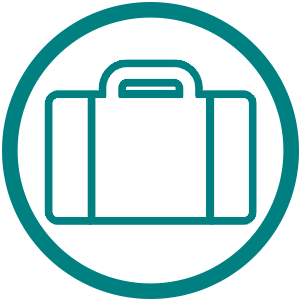
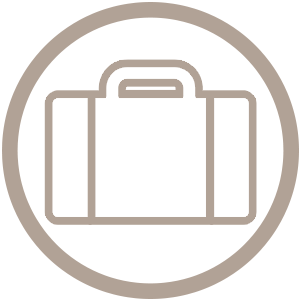
added tab color change

Changed region(s): [[0.0, 0.0, 1.0, 1.0]]

diff --git a/index.html b/index.html
@@ -7,36 +7,56 @@
 </head>
 <script type="text/javascript">
     //bio,experience,projects,skills,photography
+    var about = document.getElementById('bio');
+    var experience = document.getElementById('experience');
+    var project = document.getElementById('projects');
+    var photo = document.getElementById('photos');
+    var bioIcon = document.getElementById('bio_icon');
+    var expIcon = document.getElementById('experience_icon');
+    var projIcon = document.getElementById('projects_icon');
+    var photosIcon = document.getElementById('photos_icon');
+
     function bio(){
         document.getElementById('bio').style.display = "block";
+        // document.getElementById('bio_icon').setProperty("background-color", "white");
         document.getElementById('experience').style.display = "none";
         document.getElementById('projects').style.display = "none";
-        document.getElementById('skills').style.display = "none";
         document.getElementById('photos').style.display = "none";
+        // document.getElementById('skills').style.display = "none";
+
+        document.getElementById('bio_icon').style.backgroundColor = "#1d202b";
+        document.getElementById('experience_icon').style.backgroundColor = "transparent";
+        document.getElementById('projects_icon').style.backgroundColor = "transparent";
+        document.getElementById('photos_icon').style.backgroundColor = "transparent";
+        // document.getElementById('skills_icon').body.style.backgroundColor = "transparent";
     }
 
     function exp(){
         document.getElementById('bio').style.display = "none";
         document.getElementById('experience').style.display = "block";
         document.getElementById('projects').style.display = "none";
-        document.getElementById('skills').style.display = "none";
+        // document.getElementById('skills').style.display = "none";
         document.getElementById('photos').style.display = "none";
+
+        document.getElementById('bio_icon').style.backgroundColor = "transparent";
+        document.getElementById('experience_icon').style.backgroundColor = "#1d202b";
+        document.getElementById('projects_icon').style.backgroundColor = "transparent";
+        document.getElementById('photos_icon').style.backgroundColor = "transparent";
+        // document.getElementById('skills_icon').style.backgroundColor = "transparent";
     }
 
     function proj(){
         document.getElementById('bio').style.display = "none";
         document.getElementById('experience').style.display = "none";
         document.getElementById('projects').style.display = "block";
-        document.getElementById('skills').style.display = "none";
+        // document.getElementById('skills').style.display = "none";
         document.getElementById('photos').style.display = "none";
-    }
 
-    function skills(){
-        document.getElementById('bio').style.display = "none";
-        document.getElementById('experience').style.display = "none";
-        document.getElementById('projects').style.display = "none";
-        document.getElementById('photos').style.display = "none";
-        document.getElementById('skills').style.display = "block";
+        document.getElementById('bio_icon').style.backgroundColor = "transparent";
+        document.getElementById('experience_icon').style.backgroundColor = "transparent";
+        document.getElementById('projects_icon').style.backgroundColor = "#1d202b";
+        document.getElementById('photos_icon').style.backgroundColor = "transparent";
+        // document.getElementById('skills_icon').style.backgroundColor = "transparent";
     }
 
     function photos(){
@@ -44,8 +64,30 @@
         document.getElementById('experience').style.display = "none";
         document.getElementById('projects').style.display = "none";
         document.getElementById('photos').style.display = "block";
-        document.getElementById('skills').style.display = "none";
+        // document.getElementById('skills').style.display = "none";
+
+        document.getElementById('bio_icon').style.backgroundColor = "transparent";
+        document.getElementById('experience_icon').style.backgroundColor = "transparent";
+        document.getElementById('projects_icon').style.backgroundColor = "transparent";
+        document.getElementById('photos_icon').style.backgroundColor = "#1d202b";
+        // document.getElementById('skills_icon').style.backgroundColor = transparent";
     }
+
+    // function skills(){
+    //     document.getElementById('bio').style.display = "none";
+    //     document.getElementById('experience').style.display = "none";
+    //     document.getElementById('projects').style.display = "none";
+    //     document.getElementById('photos').style.display = "none";
+    //     document.getElementById('skills').style.display = "block";
+
+    //     document.getElementById('bio_icon').style.backgroundColor = "transparent";
+    //     document.getElementById('experience_icon').style.backgroundColor = "transparent";
+    //     document.getElementById('projects_icon').style.backgroundColor = "transparent";
+    //     document.getElementById('photos_icon').style.backgroundColor = "transparent";
+    //     document.getElementById('skills_icon').style.backgroundColor = "#1d202b";
+    // }
+
+
 
 </script>
 
@@ -82,19 +124,19 @@
         </div>
         
         <div class="sectionButtons">
-            <div class="icons">
+            <div class="icons" id = "bio_icon">
                 <input class="icons" type="image" name="about me" title = "About Me" src="about.png"  onclick="bio()" />
             </div>
-            <div class="icons">
+            <div class="icons" id = "experience_icon">
                 <input class="icons" type="image" name="experience" title = "Professional Experience" src="experience.png"  onclick="exp()" />
             </div>
-            <div class="icons">
+            <div class="icons" id = "projects_icon">
                 <input class="icons" type="image" name="projects" title = "Technical Projects" src="projects.png"  onclick="proj()" />
             </div>
-            <div class="icons">
+            <div class="icons" id = "photos_icon">
                 <input class="icons" type="image" name="photos" title = "Digital Design" src="photography.png"  onclick="photos()" />
             </div>
-<!--             <div class="icons">
+<!--             <div class="icons" id = "skills_icon">
                 <input class="icons" type="image" name="skills" title = "Skills" src="skills.png"  onclick="skills()" />
             </div> -->
         </div>

diff --git a/css/stylesheet.css b/css/stylesheet.css
@@ -1,3 +1,15 @@
+/*
+Icon Colors Used 
+ - sand: #b1a296
+ - dark background: #0b0c10
+ - section button blue grey: #1d202b
+ - darkslategray
+ - dimgrey
+ - steelblue
+ */
+
+
+
 html {
 /*    height: 100%;
     margin: 0;*/
@@ -22,6 +34,7 @@ body {
     grid-template-columns: 550px auto;
     /* height: 80%; */
     grid-template-rows: 100%;
+    background-color: #1d202b;
     /* grid-template-rows: 100%; */
     /* background-repeat: no-repeat; */
     /* background-attachment: fixed; */
@@ -48,6 +61,11 @@ body {
 ::-webkit-scrollbar-thumb:hover {
     background: #555; 
 }
+
+input:focus {
+    outline:none;
+}
+
 div.page{
     height:95%;
     width: 100%;
@@ -56,7 +74,10 @@ div.page{
 .sectionButtons{
     height: 100%;
     margin: auto;
-    background-color: #1d202b;
+    background-color: #333a41;
+    padding-left: 10%;
+    box-shadow: inset -13px 0px 9px 0 rgba(0,0,0,0.2);
+    /*24292e*/
 }
 
 .text {
@@ -69,7 +90,7 @@ div.page{
 
 div.icons{
     display: inline-flex;
-    padding: 20px;
+    padding: 15px;
 }
 
 img.icons {
@@ -135,7 +156,8 @@ img.iconLinks{
 }
 .card {
     /* box-shadow: 0 4px 8px 0 rgba(0,0,0,0.75); */
-    background-color: #0b0c10;
+    /*background-color: #0b0c10;*/
+    background-color: #1d202b;
     /* border-radius: 5px; */
     height: 100vh;
     overflow: hidden;
@@ -146,7 +168,7 @@ img.iconLinks{
     background-repeat: no-repeat; 
     /*background-attachment: fixed;*/
     background-position: center;
-    background-image: url(background1.png);
+    background-image: url(background_blue.png);
     background-size: cover;
 }
 .aboutText{
@@ -311,6 +333,24 @@ h1.sectionHeader{
     /*grid-template-rows: 75% 25%;*/
 }
 
+#bio_icon{
+    background-color:#1d202b;
+    border-radius: 25px 0px 0px 25px;
+}
+
+#experience_icon{
+    background-color:transparent;
+    border-radius: 25px 0px 0px 25px;
+}
+#projects_icon{
+    background-color:transparent;
+    border-radius: 25px 0px 0px 25px;
+}
+#photos_icon{
+    background-color:transparent;
+    border-radius: 25px 0px 0px 25px;
+}
+
 .jobHeader{
     display: grid;
     /*height: 100px;*/
@@ -453,7 +493,7 @@ h1,img,p{opacity: 1;}
     body {
         overflow-y: scroll;
          display: grid; 
-        background-color: #0b0c10;
+        /*background-color: #0b0c10;*/
         grid-template-columns: auto;
         background-size: cover;
         grid-template-rows: auto auto;
@@ -465,7 +505,7 @@ h1,img,p{opacity: 1;}
         /*width: 90%;*/
         /*margin: 50px 0 0 0;*/
         height: 90vh;
-        background-color: #0b0c10;
+        /*background-color: #0b0c10;*/
         background-size: auto;
     }
     input.icons {
@@ -498,6 +538,8 @@ h1,img,p{opacity: 1;}
         height: auto;
         display: flex;
         margin: 0;
+        padding: 2.5% 2.5% 0 2.5%;
+            box-shadow: inset 0px -10px 16px 0 rgba(0,0,0,0.3);
 
     }
 
@@ -551,10 +593,23 @@ h1,img,p{opacity: 1;}
     #photos{
         height:95%;
     }
+    #bio_icon{
+        border-radius: 25px 25px 0px 0px;
+    }
+
+    #experience_icon{
+        border-radius: 25px 25px 0px 0px;
+    }
+    #projects_icon{
+        border-radius: 25px 25px 0px 0px;
+    }
+    #photos_icon{
+        border-radius: 25px 25px 0px 0px;
+    }
 }
 
 @media only screen 
-  and (min-device-width: 768px) 
+  and (min-device-width: 500px) 
   and (max-device-width: 1024px) 
   and (-webkit-min-device-pixel-ratio: 1) {
 
